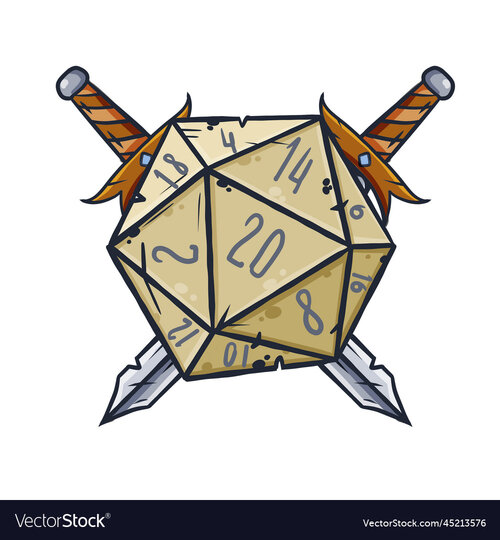
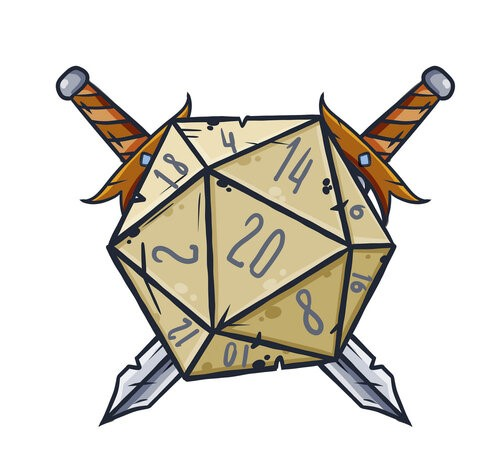
dices

diff --git a/d&d-with-me/site-plan.html b/d&d-with-me/site-plan.html
@@ -133,7 +133,7 @@
 
       <p>Images for the Welcome to D&D With Me page</p>
         <img src="images/rsz_real_logo.png" alt="Logo">
-        <img src="images/Final Dice.jpg" alt="Dice">
+        <img src="images/rsz_final_dice.jpg" alt="Dice">
         <img src="images/Sword and Shield.jpg" alt="Sword and Shield">
 
       </ul>
